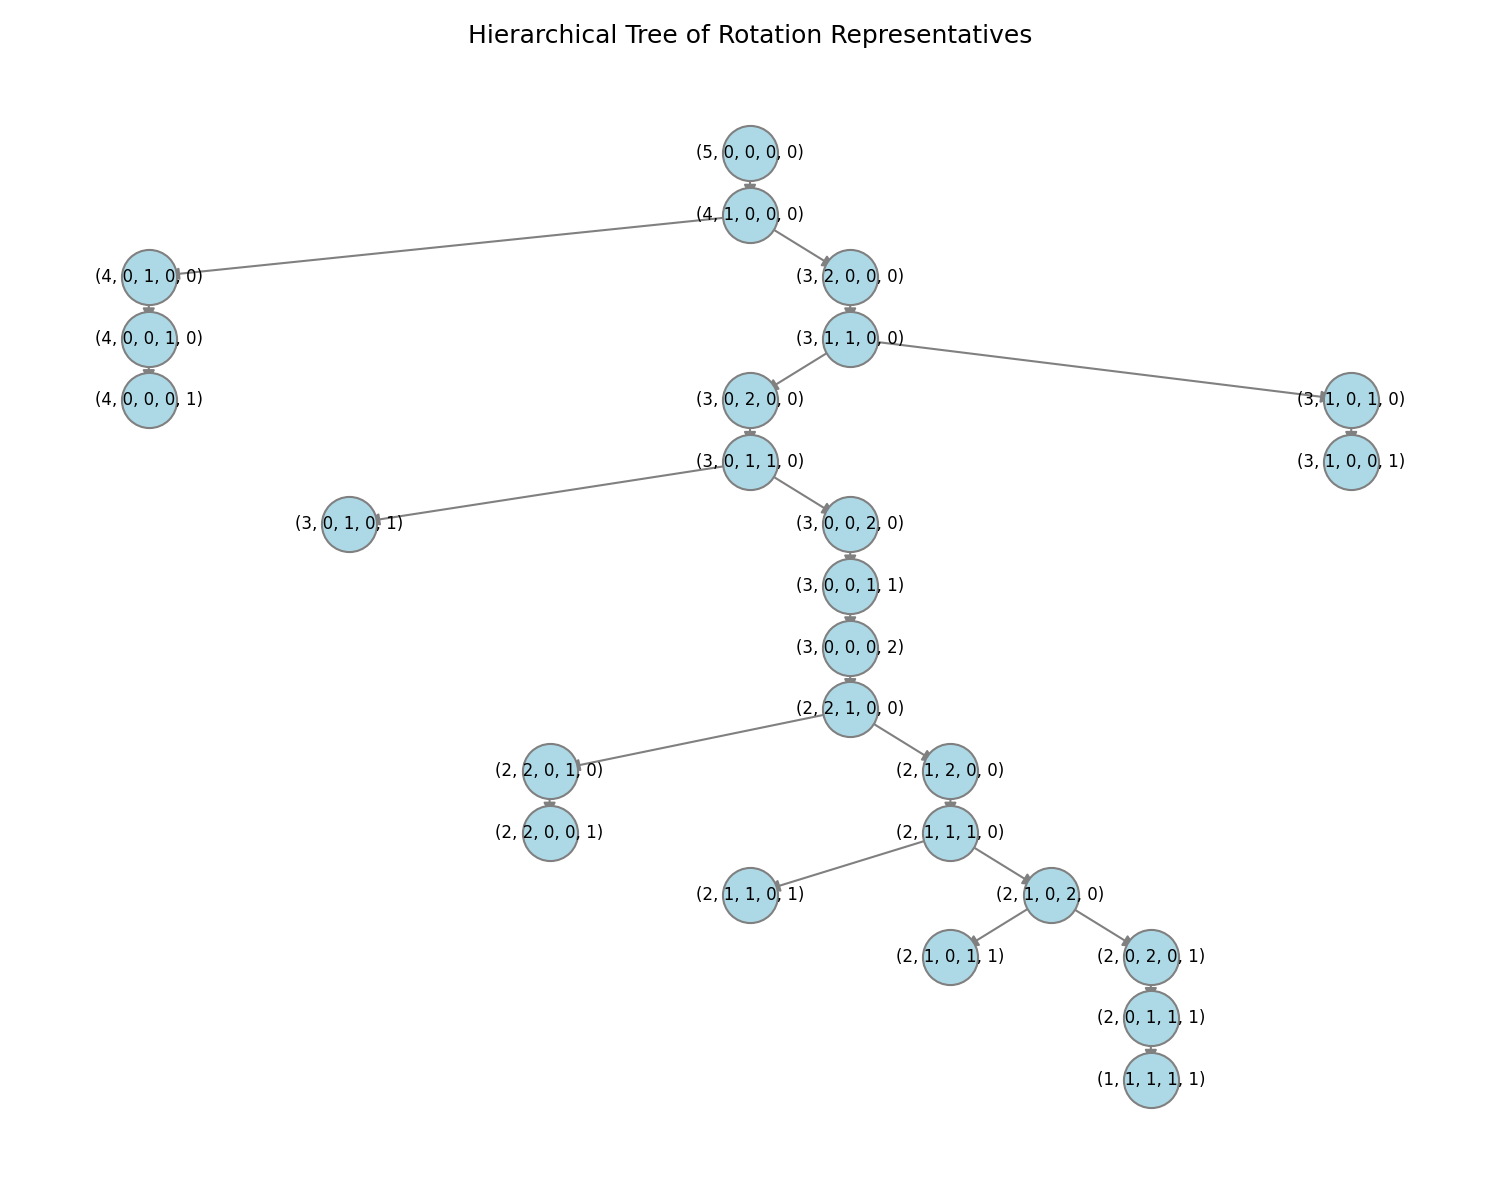
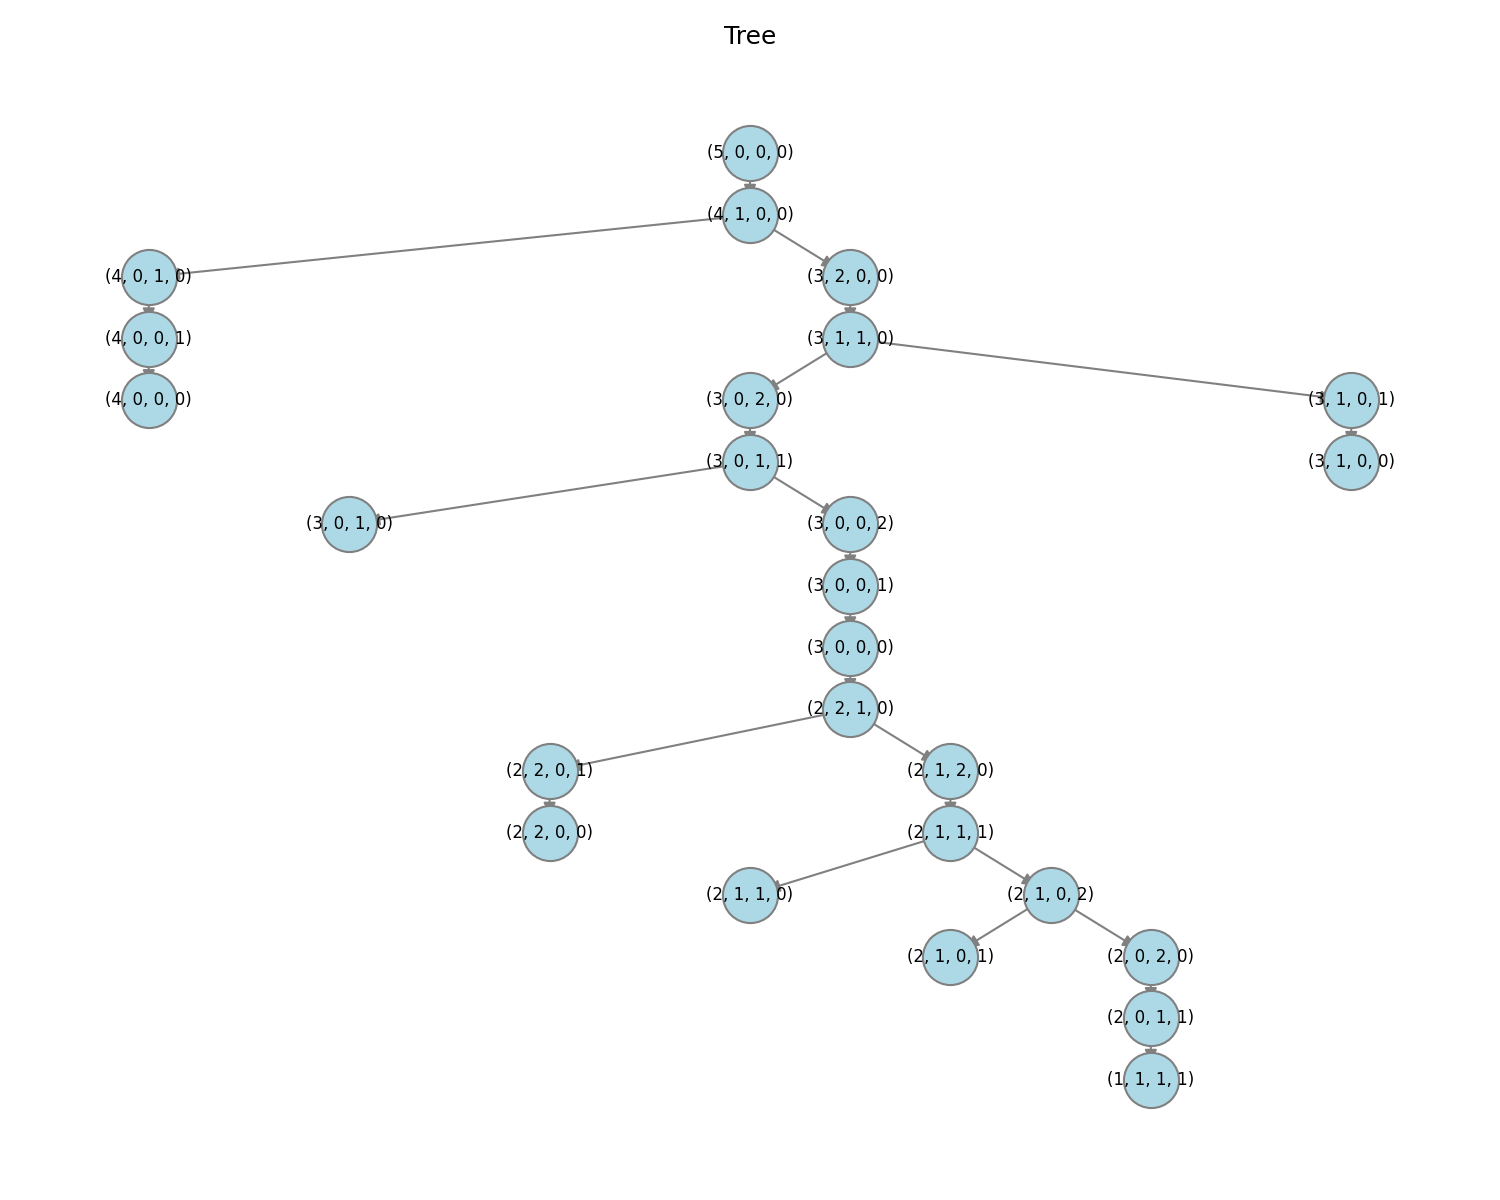
added functionality for displaying the graph using the shorthand representation

diff --git a/parentTree.py b/parentTree.py
@@ -48,14 +48,7 @@ def compute_subtree_sizes(tree: Dict[Tuple[int, ...], List[Tuple[int, ...]]],
     dfs(root)
     return sizes
 
-def plot_tree(tree: Dict[Tuple[int, ...], List[Tuple[int, ...]]],
-              root: Tuple[int, ...],
-              filename="tree.png"):
-    """
-    Draws the tree in a true hierarchical layout (no Graphviz needed):
-    - Root at y=0, children at y=-1, -2, …
-    - Horizontal spacing proportional to subtree sizes.
-    """
+def plot_tree(tree: Dict[Tuple[int, ...], List[Tuple[int, ...]]], root: Tuple[int, ...], filename="tree.png", shorthand = False):
     # Build directed graph
     G = nx.DiGraph()
     for parent, children in tree.items():
@@ -100,12 +93,20 @@ def plot_tree(tree: Dict[Tuple[int, ...], List[Tuple[int, ...]]],
         arrowsize=12,
         edge_color='gray'
     )
-    nx.draw_networkx_labels(
-        G, pos,
-        labels={n: str(n) for n in G.nodes()},
-        font_size=8
-    )
-    plt.title("Hierarchical Tree of Rotation Representatives")
+    if shorthand:
+        nx.draw_networkx_labels(
+            G, pos,
+            labels={n: str(n)[:len(str(n))-4] +")" for n in G.nodes()},
+            font_size=8
+        )
+    else:
+        nx.draw_networkx_labels(
+            G, pos,
+            labels={n: str(n) for n in G.nodes()},
+            font_size=8
+        )
+
+    plt.title("Tree")
     plt.axis('off')
     plt.tight_layout()
     plt.savefig(filename, dpi=150)
@@ -115,5 +116,4 @@ def plot_tree(tree: Dict[Tuple[int, ...], List[Tuple[int, ...]]],
 if __name__ == "__main__":
     k, m = 5, 5
     tree, root = build_parent_tree(k, m)
-    print(type(tree))
-    plot_tree(tree, root)
+    plot_tree(tree, root,shorthand=False)
